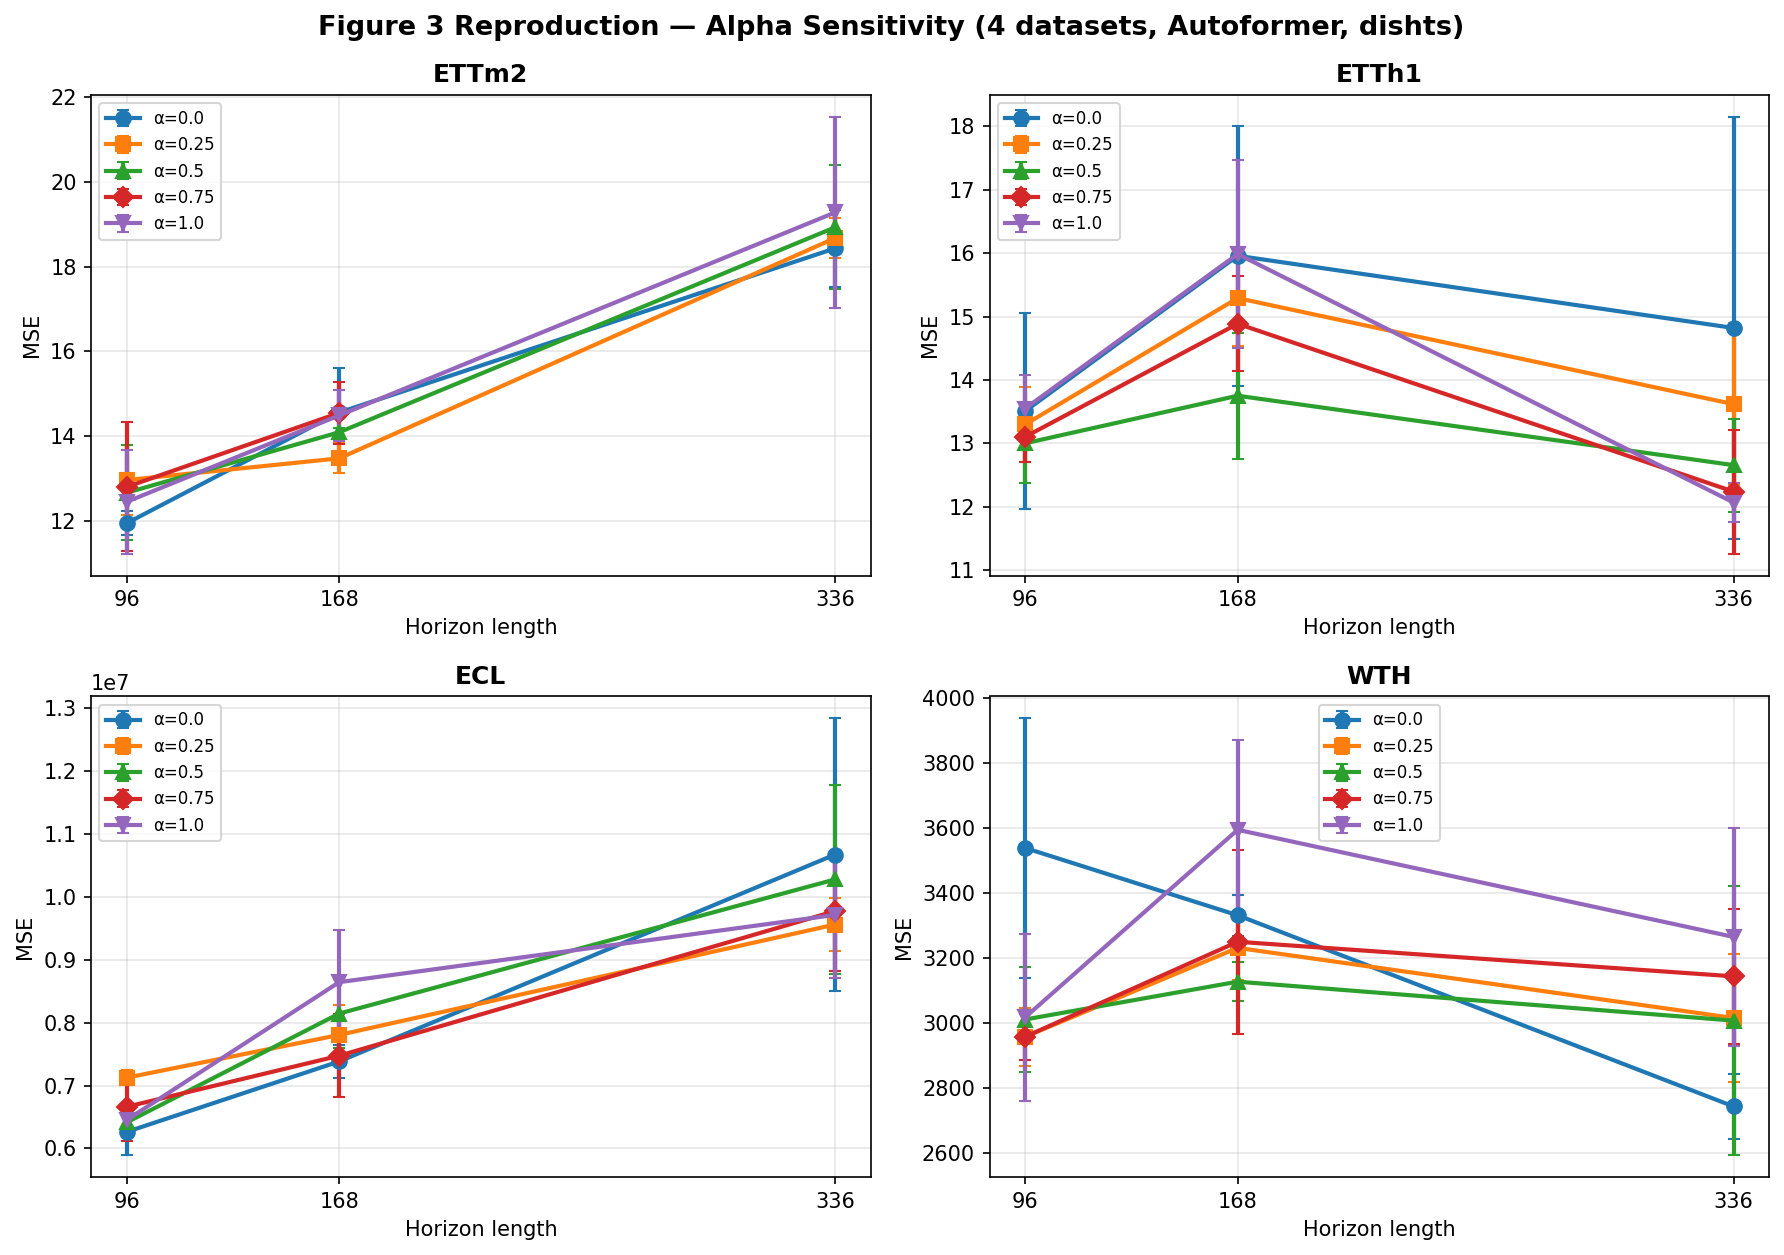
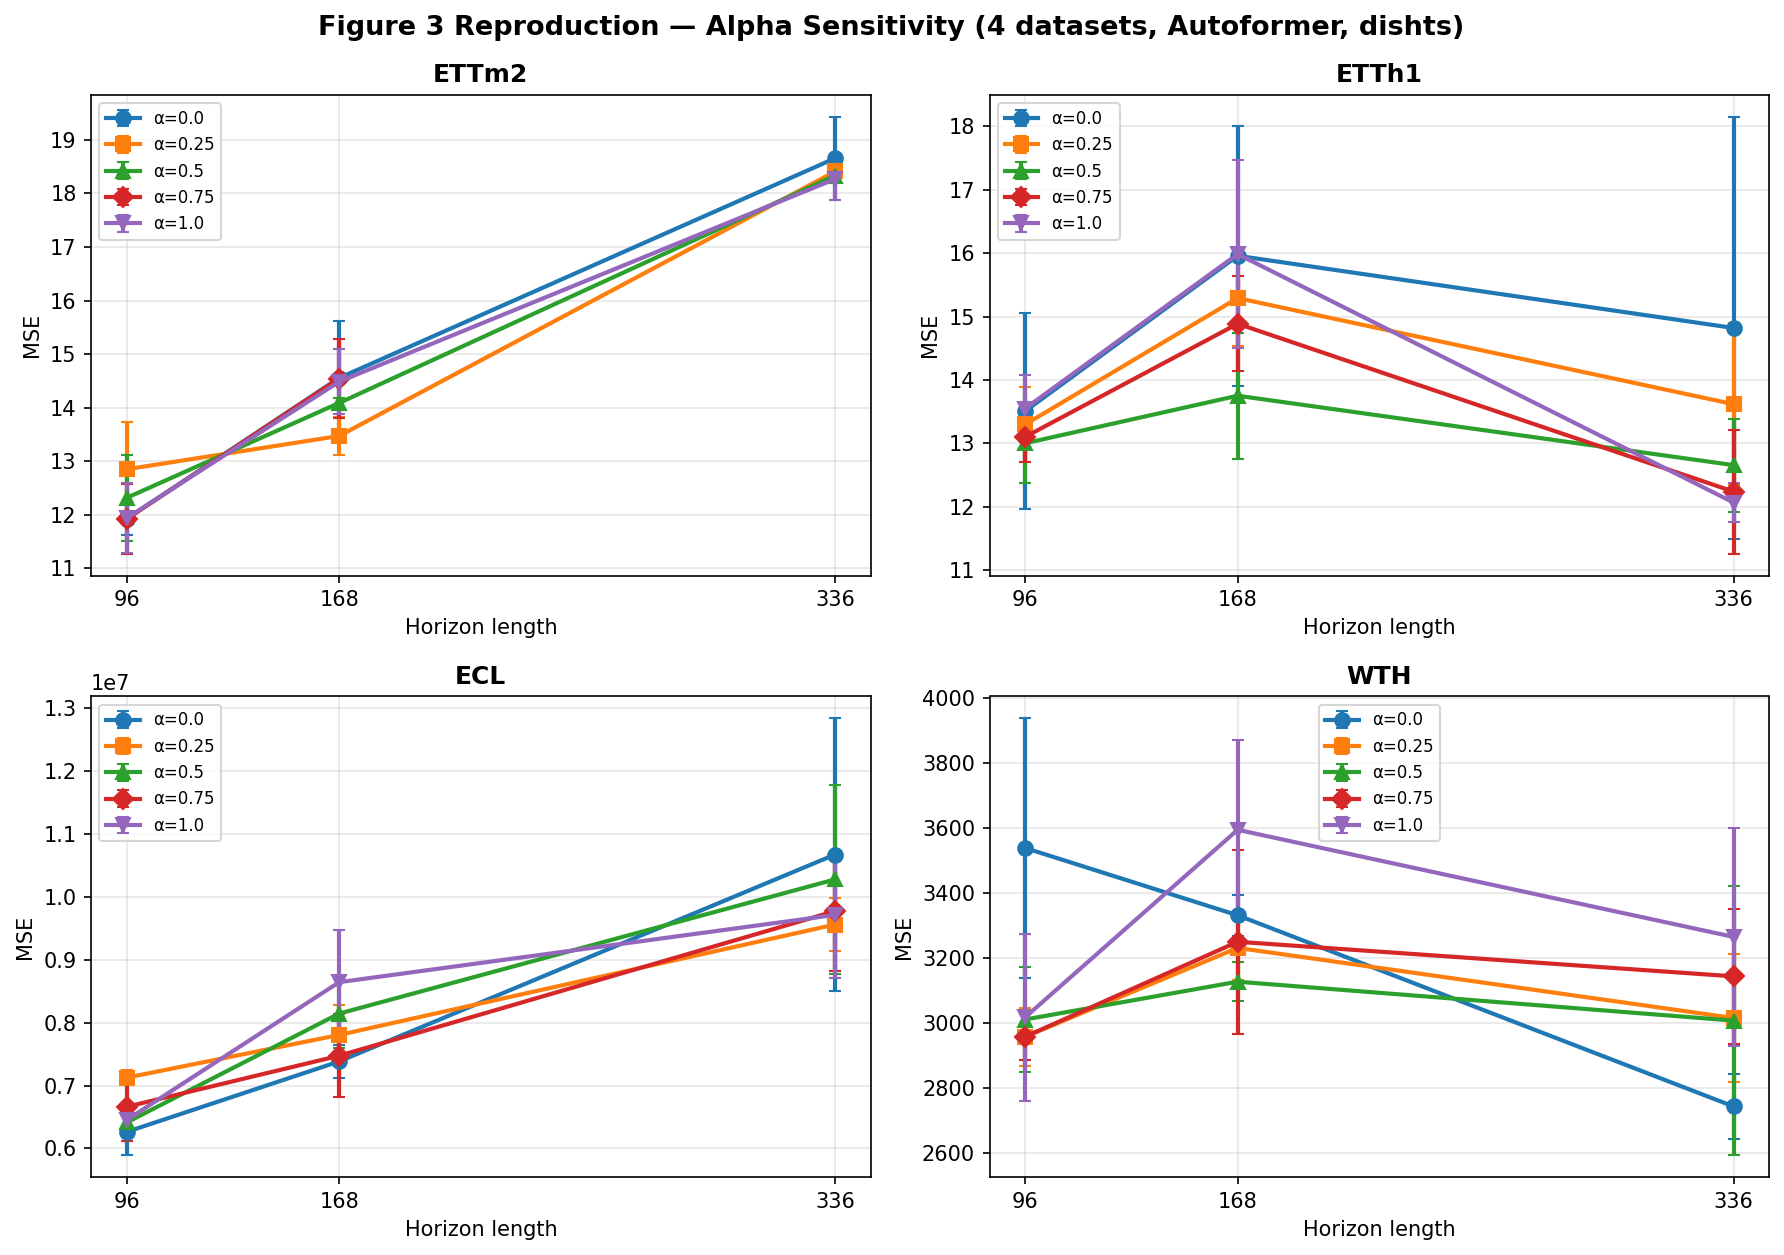
Fix: filter plotting scripts by prior=paper-phi-only (was mixing Phase 1/2b data); regenerate Figure 3 + bar charts.  Issue: before filtering, alpha-sensitivity plots mixed prior=none (Phase 1 sanity check) with prior=paper-phi-only (Phase 2b sweep), producing misleading baselines and 'blank' cells.

Changed region(s): [[0.0308, 0.0932, 0.4933, 0.4351], [0.0308, 0.1865, 0.0617, 0.2175], [0.0308, 0.1243, 0.0617, 0.1554]]

diff --git a/repro_figures/plot_phase2b_summary.py b/repro_figures/plot_phase2b_summary.py
@@ -42,8 +42,8 @@ SCALE_MULTI = {
 }
 
 
-def load_rows(path: Path) -> list[dict]:
-    """Load ALL dishts rows (any alpha, any prior). Returns list with raw MSE."""
+def load_rows(path: Path, prior: str = "paper-phi-only") -> list[dict]:
+    """Load dishts rows filtered by prior. Default: paper-phi-only (Phase 2b)."""
     rows = []
     with open(path, newline="") as fh:
         for r in csv.DictReader(fh):
@@ -53,7 +53,7 @@ def load_rows(path: Path) -> list[dict]:
                 r["MSE"] = float(r["MSE"])
             except (KeyError, ValueError):
                 continue
-            if r["norm"] != "dishts" or math.isnan(r["MSE"]) or math.isinf(r["MSE"]):
+            if r["norm"] != "dishts" or r.get("prior") != prior or math.isnan(r["MSE"]) or math.isinf(r["MSE"]):
                 continue
             # Exclude H=24: Phase 2a/2b only scan {96, 168, 336} (paper Fig.3
             # does not cover H=24). Only ECL has 5 alpha values at H=24 from

diff --git a/repro_figures/plot_figure3_multidataset.py b/repro_figures/plot_figure3_multidataset.py
@@ -29,6 +29,8 @@ def main() -> int:
                     default=[96, 168, 336])
     ap.add_argument("--min-n", type=int, default=2,
                     help="min seeds to include a (dataset, pred_len, alpha) cell")
+    ap.add_argument("--prior", default="paper-phi-only",
+                    help="Only keep rows with this prior (e.g. paper-phi-only, none)")
     args = ap.parse_args()
 
     csv_path = Path(args.input)
@@ -37,8 +39,8 @@ def main() -> int:
         return 2
 
     rows = list(csv.DictReader(csv_path.open()))
-    # Keep dishts only
-    rows = [r for r in rows if r.get("norm") == "dishts"]
+    # Keep dishts only, and require a specific prior to avoid mixing experiment phases
+    rows = [r for r in rows if r.get("norm") == "dishts" and r.get("prior") == args.prior]
 
     # aggregate: (dataset, pred_len, alpha) -> list of MSE
     agg: dict[tuple[str, int, float], list[float]] = defaultdict(list)

diff --git a/repro_figures/plot_phase2b_best_alpha.py b/repro_figures/plot_phase2b_best_alpha.py
@@ -29,6 +29,8 @@ def main() -> int:
                     default=[96, 168, 336])
     ap.add_argument("--alphas", nargs="+", type=float,
                     default=[0.0, 0.25, 0.5, 0.75, 1.0])
+    ap.add_argument("--prior", default="paper-phi-only",
+                    help="Only keep rows with this prior (e.g. paper-phi-only, none)")
     ap.add_argument("--min-n", type=int, default=2)
     args = ap.parse_args()
 
@@ -38,7 +40,7 @@ def main() -> int:
         return 2
 
     rows = list(csv.DictReader(csv_path.open()))
-    rows = [r for r in rows if r.get("norm") == "dishts"]
+    rows = [r for r in rows if r.get("norm") == "dishts" and r.get("prior") == args.prior]
 
     # (dataset, pred_len, alpha) -> list of MSE
     agg: dict[tuple[str, int, float], list[float]] = defaultdict(list)

diff --git a/EXPERIMENT_REPORT.md b/EXPERIMENT_REPORT.md
@@ -87,7 +87,14 @@ seeds {2023, 2024, 2025}，`patience=7`，`max_epochs=100`。
 
 ![最佳 α 改善柱状图](results/figures/phase2b_best_alpha_improvement.png)
 
-12 个 (dataset, H) 单元中，**7 个**有正改善。**ETTh1 子图**（绿色背景）最佳地复现了论文 Fig.3 的趋势——H 越大，最佳 α 越有效，改善从 −3.8% 一路增大到 −18.6%。
+**读图要点：**
+- **ETTh1**（绿色高亮）最佳复现论文 Fig.3 的趋势：H 越大，最佳 α 越有效，改善从 −3.8% → −13.8% → −18.6%
+- **WTH** 在短窗口（H=96）α 先验显著有效（−16.4%），但 H=336 时 α=0.0 反而最优（与论文趋势相反）
+- **ETTm2** 仅在 H=168 有明显改善（−7.4%），其余窗口改善 ≤2%
+- **ECL** 的原始 MSE 在百万量级，scale 带来的统计噪声较大，仅 H=336 有 −10.4% 改善
+- 图中看似"空白"的 cell（如 ETTm2 H=96、ECL H=96/168、WTH H=336）是真实的 "α=0.0 即最优"，并非缺数据
+
+12 个 (dataset, H) 单元中，**7 个** 有正改善（α≠0 优于 α=0.0），**5 个** cell α=0.0 即为最优。定性结论：论文 "long-horizon 受益于 alpha 先验" 的趋势在 **ETTh1 上强烈成立**，在 **ETTm2/ECL 上部分成立**（长窗口有改善），在 **WTH 上不成立**（短窗口反而被先验干扰）。
 
 ---
 
